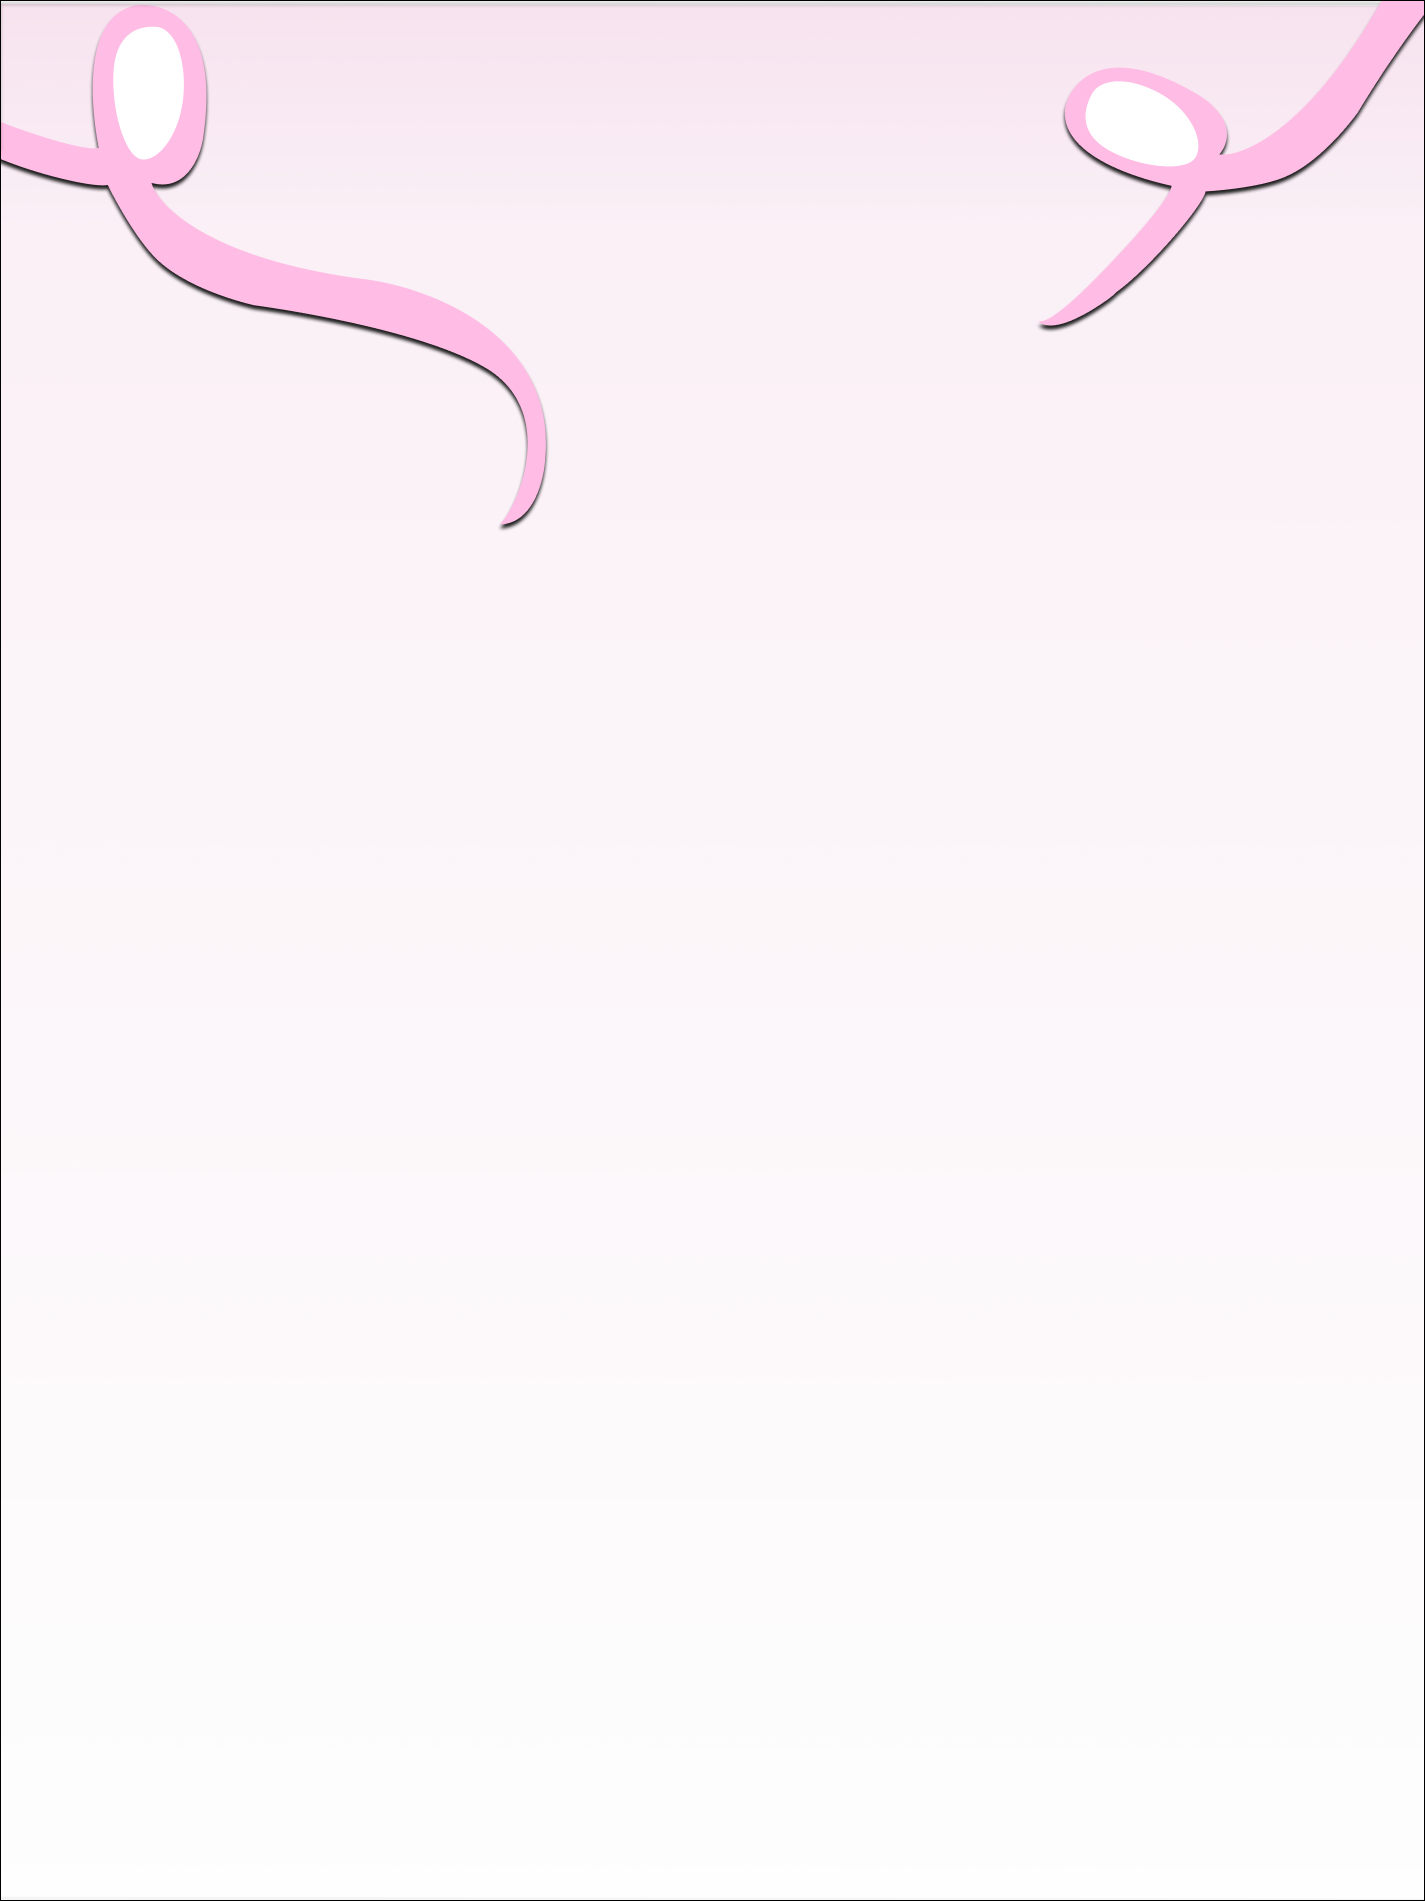
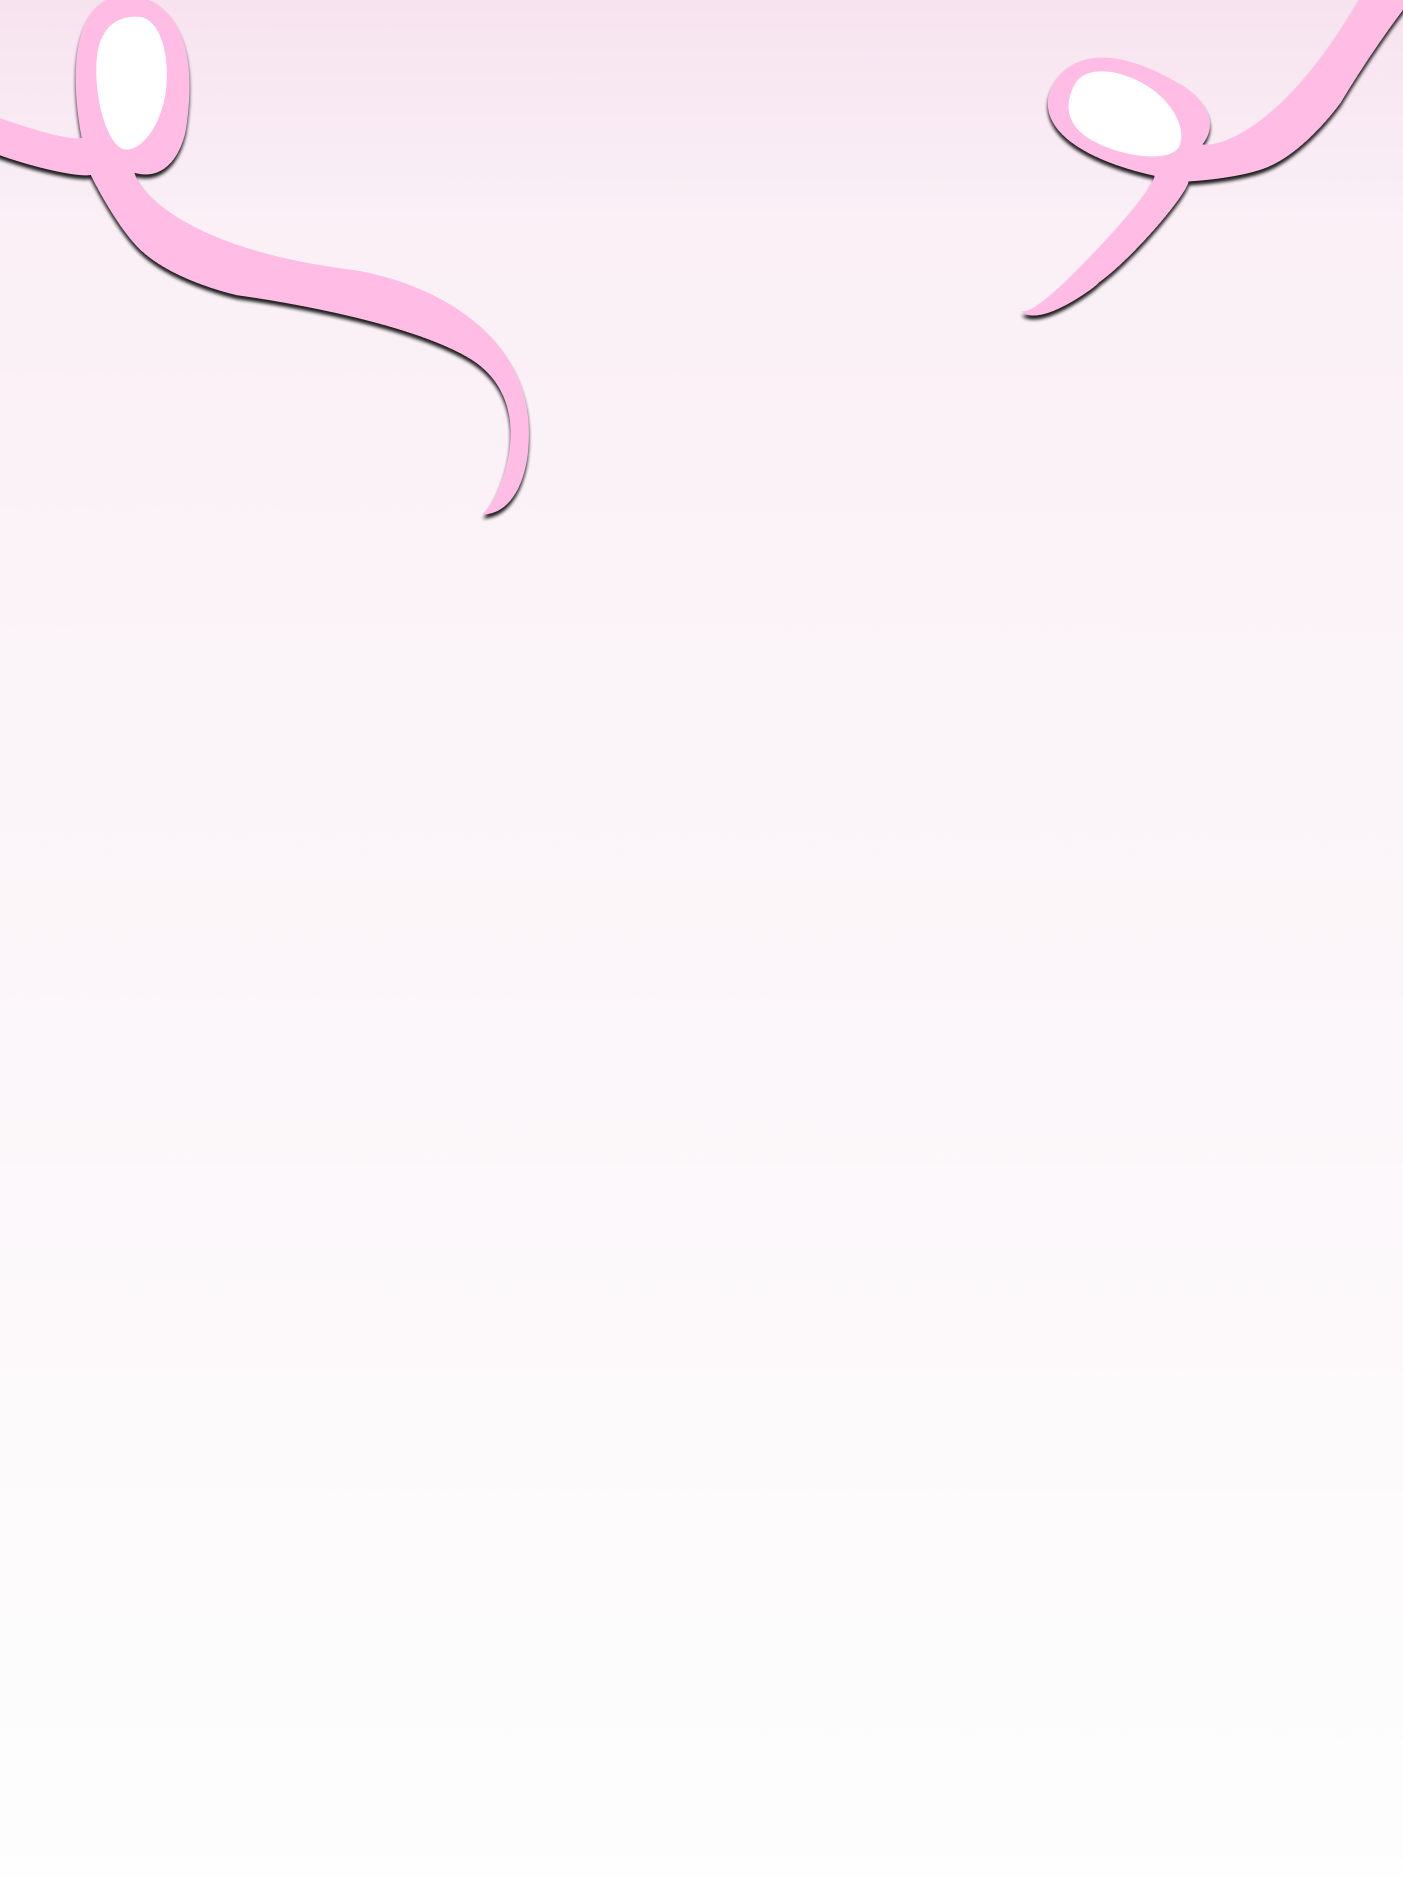
fix black line bug for background image (cropped it)

diff --git a/technolgap/src/custom-pico.css b/technolgap/src/custom-pico.css
@@ -15,7 +15,7 @@ body {
 
 @media (max-width: 500px) {
   .classic-bg {
-    background-image: url("/classic-bg-mobile.png")
+    background-image: url("/classic-bg-mobile.png");
   }
 }
 .button {
@@ -510,7 +510,7 @@ details summary[role=button]:not(.outline)::after {
 }
 [data-theme=dark] {
   --pico-background-color: rgb(19, 22.5, 30.5);
-  --pico-color: #ffffff;
+  --pico-color: #c2c7d0;
   --pico-text-selection-color: rgba(1, 170, 255, 0.1875);
   --pico-muted-color: #7b8495;
   --pico-muted-border-color: #202632;

diff --git a/technolgap/src/custom-pico.scss b/technolgap/src/custom-pico.scss
@@ -16,11 +16,11 @@ body {
     background-color: white;
 }
 
-@media (max-width: 770px) {
-    .classic-bg {
-      background-size: 770px auto;
-    }
+@media (max-width: 500px) {
+  .classic-bg {
+    background-image: url("/classic-bg-mobile.png")
   }
+}
 
   .button {
     text-decoration: none;
